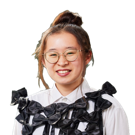
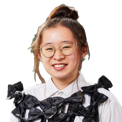
pic effect

diff --git a/style-new.css b/style-new.css
@@ -253,23 +253,30 @@ a.pub-button:not([href]) {
     position: absolute;
     left: 0;
     top: calc(100% + 8px);      /* just below the button */
-    width: 120px;
-    height: 120px;
+    width: 100px;
+    height: 100px;
     object-fit: cover;
     border: 1px solid rgb(37, 81, 226);
     border-radius: 3px;         /* square like the buttons; use 50% for a circle */
     background-color: rgb(37, 81, 226);  /* site blue behind the cut-out photo */
     opacity: 0;
     visibility: hidden;
-    transition: opacity 0.15s ease;
+    /* starts a little lower and blurry, then floats up and comes into focus */
+    transform: translateY(12px);
+    filter: blur(6px);
+    transition: opacity 0.4s ease, transform 0.8s ease-out, filter 0.4s ease, visibility 0.4s;   /* timing when it disappears */
     pointer-events: none;
     z-index: 10;
 }
 
 .headshot-hover:hover .headshot-preview,
 .headshot-hover:focus-within .headshot-preview {
-    opacity: 0.85;              /* 85% opaque; use 1 for fully solid */
+    opacity: 0.75;              /* 75% opaque; use 1 for fully solid */
     visibility: visible;
+    transform: translateY(0);
+    filter: blur(0);
+    /* timing when it appears: fades in blurry first, then sharpens a beat later */
+    transition: opacity 0.25s ease, transform 0.6s ease-out, filter 0.35s ease 0.15s, visibility 0.25s;
 }
 
 @media (max-width: 767.98px) {
@@ -296,4 +303,13 @@ a.pub-button:not([href]) {
 html,
 a {
     cursor: url("images/simple-cursor-blue.png") 1 1, auto;
+}
+
+/* No floating or blur for people who have reduced motion turned on; they get the plain fade */
+@media (prefers-reduced-motion: reduce) {
+    .headshot-preview {
+        transform: none;
+        filter: none;
+        transition: opacity 0.15s ease;
+    }
 }

diff --git a/index.html b/index.html
@@ -341,6 +341,7 @@ While I was a PhD student, I was awarded the <a href="https://cs.brown.edu/news/
   </div>
 
 
+
 </body>
 
 </html>
